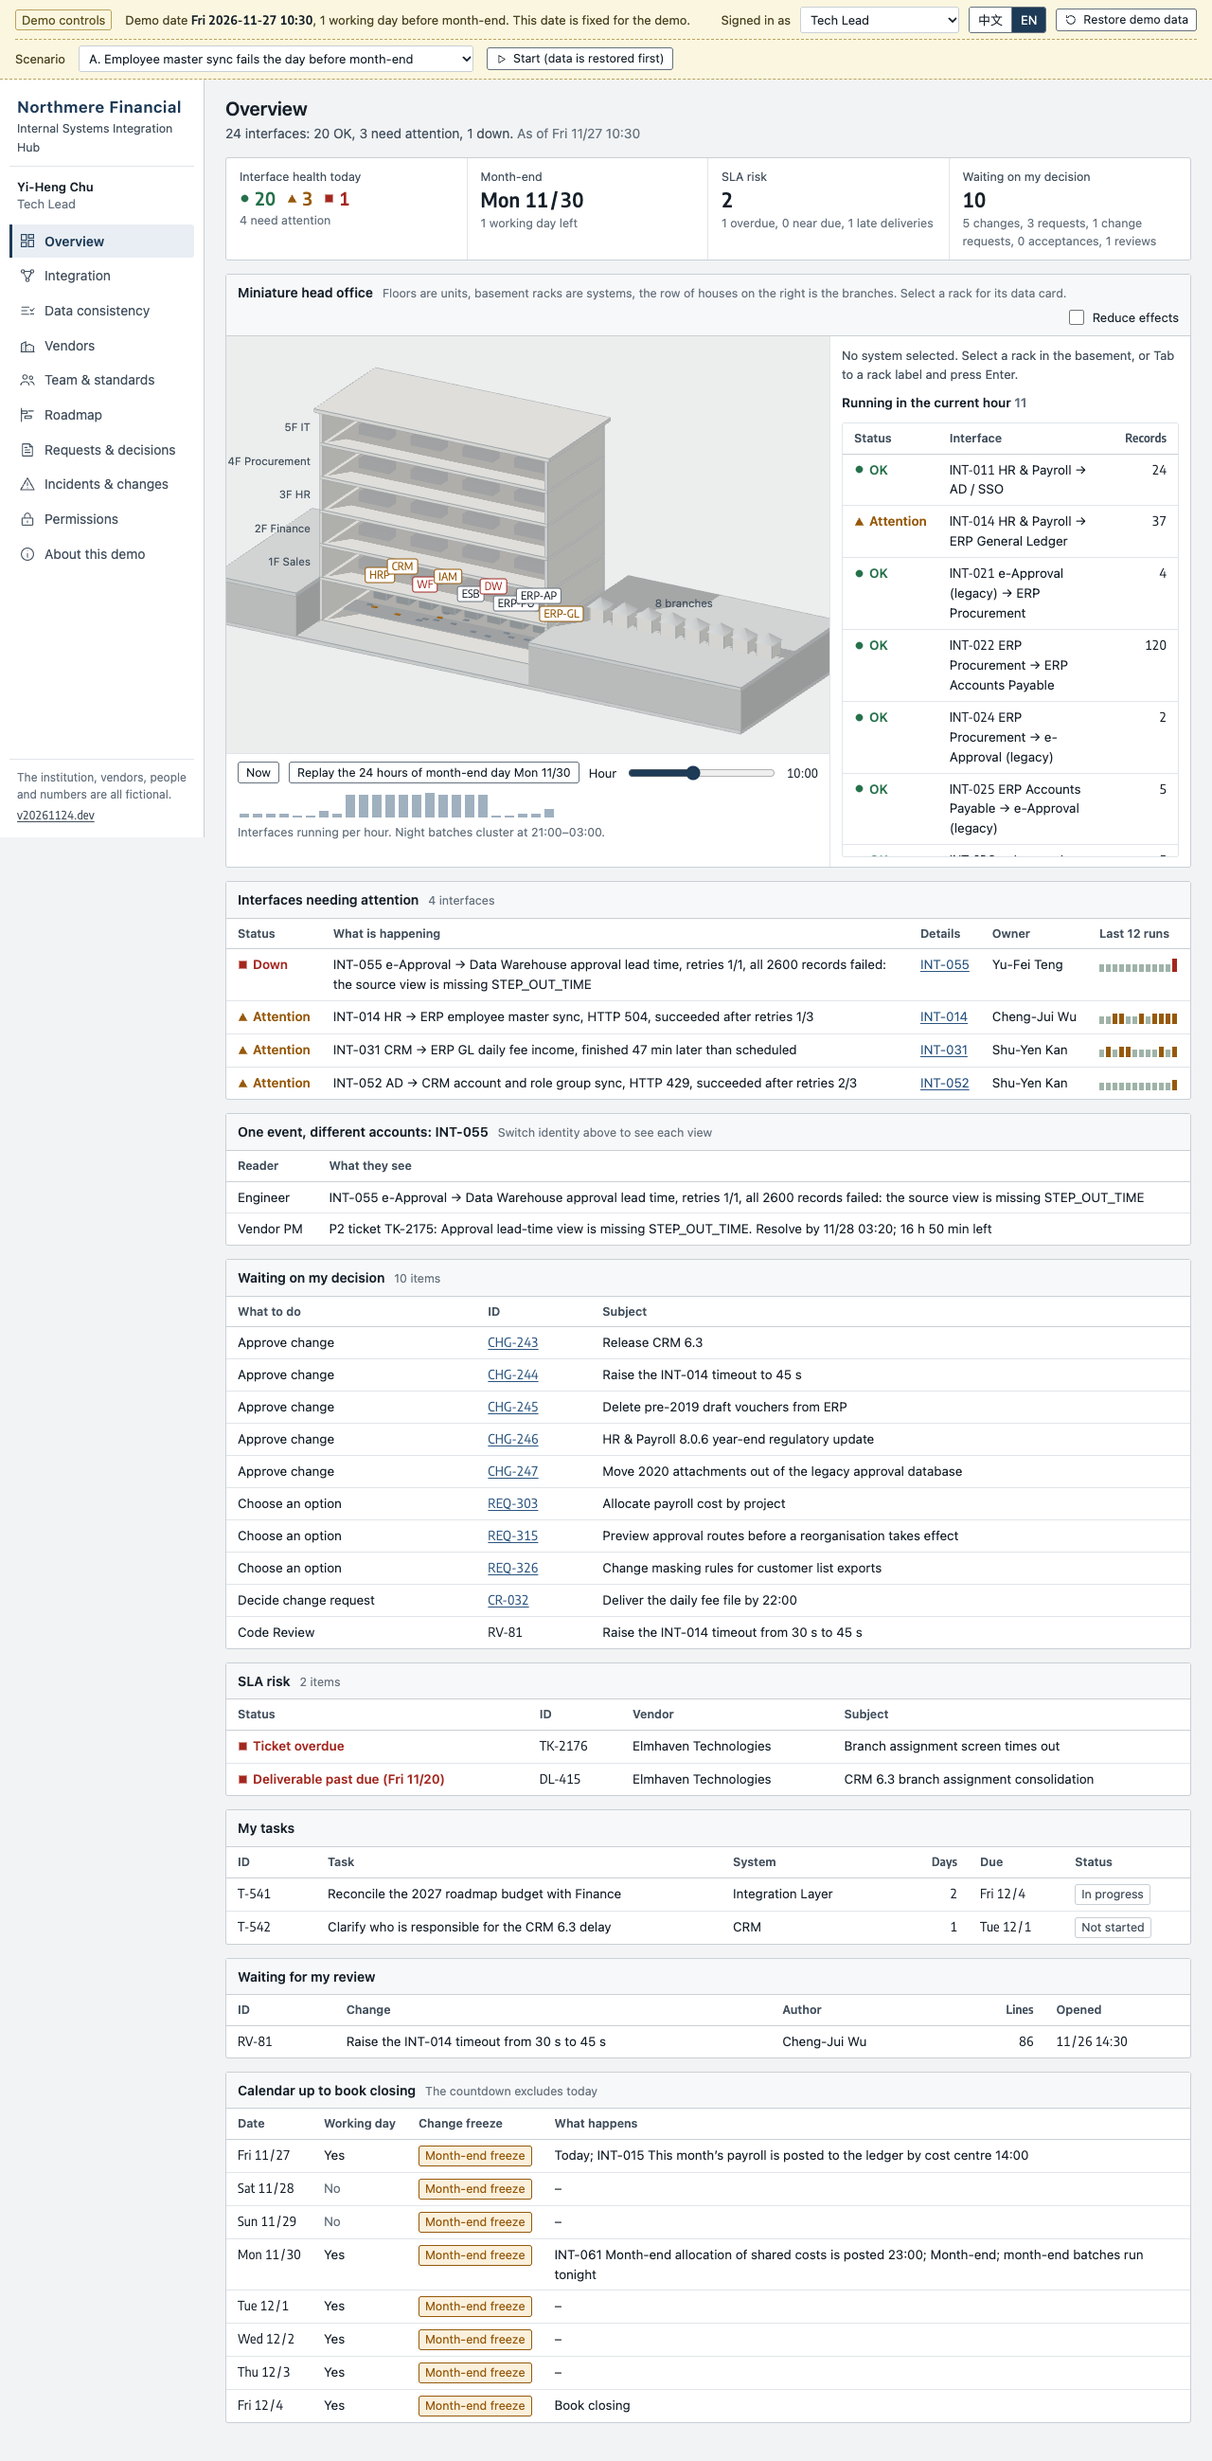
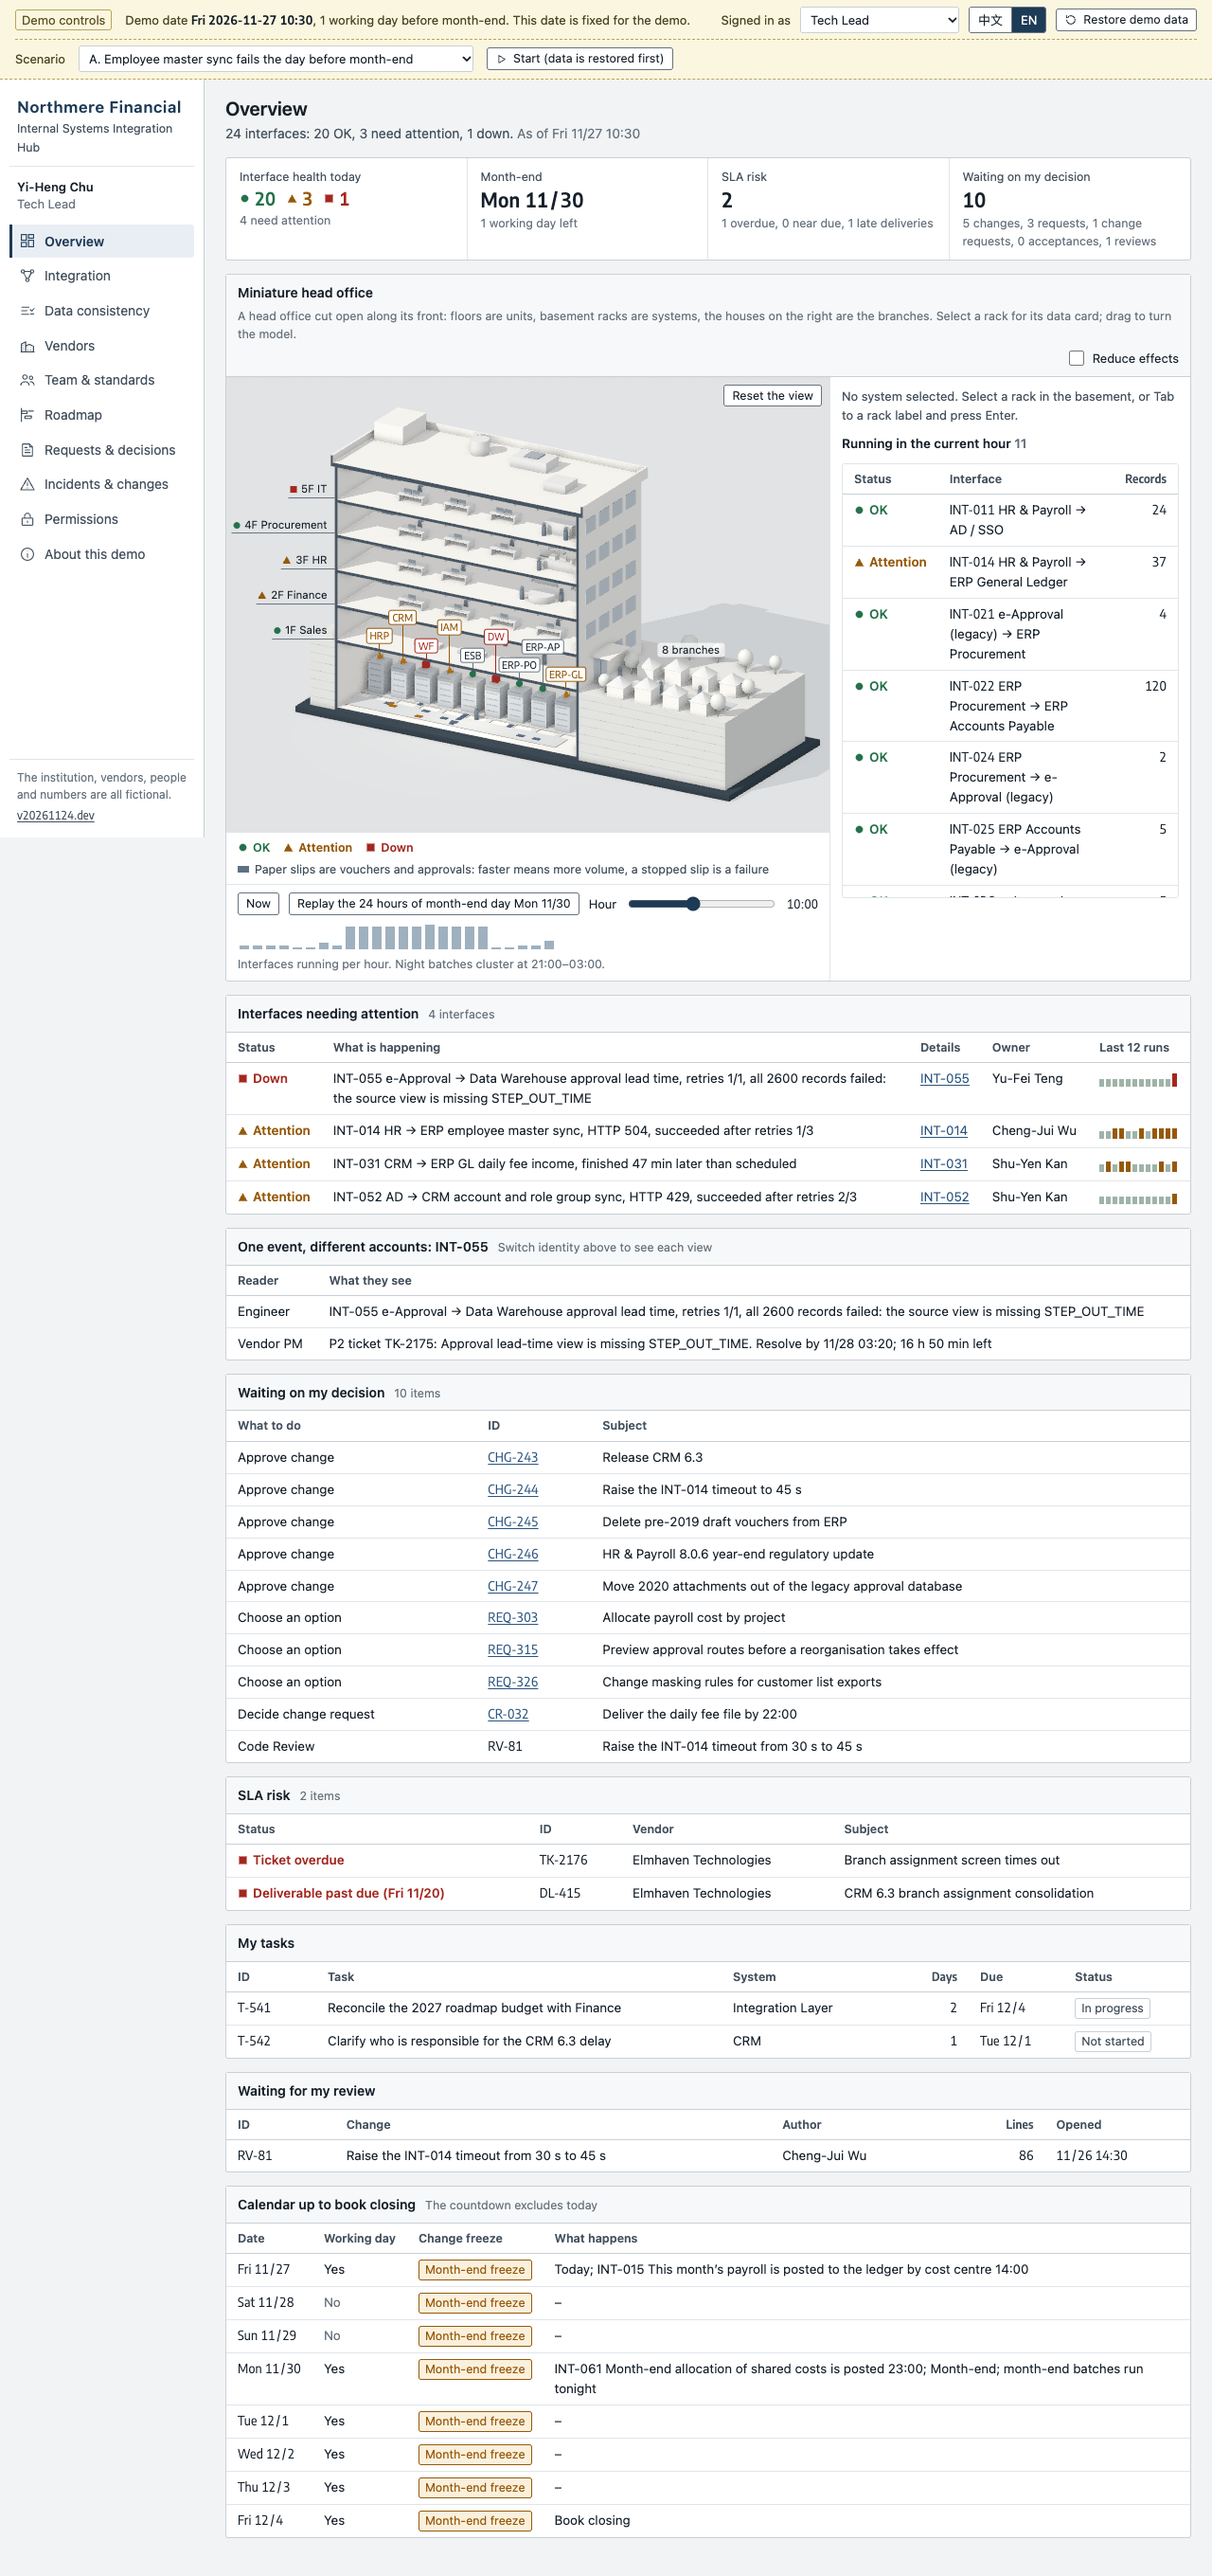
docs: ADR 0006 記下 3D 的畫法，截圖更新
為什麼改成剖面白模、機櫃為什麼靠前靠左、環境遮蔽什麼時候會自己關掉、沒量過的是什麼。
截圖腳本可以指定時間軸的小時，也可以只拍其中幾張；新增一張夜間的截圖。

diff --git a/scripts/screenshots.ts b/scripts/screenshots.ts
@@ -6,6 +6,8 @@ import { mkdirSync } from 'node:fs';
 import { chromium } from '@playwright/test';
 
 const base = process.argv[2] ?? 'http://localhost:4173/';
+// 第二個參數可以只拍檔名開頭符合的那幾張，例如 bun scripts/screenshots.ts http://localhost:4173/ 22
+const only = process.argv[3];
 const OUT = 'docs/screenshots';
 
 interface Shot {
@@ -14,12 +16,15 @@ interface Shot {
   role?: string;
   lang?: 'zh' | 'en';
   width?: number;
+  /** 3D 的時間軸要拉到幾點。 */
+  hour?: number;
 }
 
 const SHOTS: Shot[] = [
   { file: '01-overview-techlead', hash: '/overview' },
   { file: '02-overview-finance', hash: '/overview', role: 'finance' },
   { file: '16-twin-impact', hash: '/overview?focus=hr&what=if' },
+  { file: '22-twin-night', hash: '/overview?focus=erp-gl', hour: 23 },
   { file: '07-integration', hash: '/integration' },
   { file: '08-integration-iface', hash: '/integration?iface=INT-014' },
   { file: '09-integration-impact', hash: '/integration?sys=hr&impact=hr' },
@@ -43,6 +48,7 @@ const SHOTS: Shot[] = [
 mkdirSync(OUT, { recursive: true });
 const browser = await chromium.launch({ channel: process.env.CI ? undefined : 'chrome' });
 for (const shot of SHOTS) {
+  if (only && !shot.file.startsWith(only)) continue;
   const context = await browser.newContext({ viewport: { width: shot.width ?? 1280, height: 800 }, deviceScaleFactor: 1 });
   const page = await context.newPage();
   await page.goto(`${base}#/overview`);
@@ -56,7 +62,13 @@ for (const shot of SHOTS) {
   if (shot.hash.startsWith('/integration') || shot.hash.startsWith('/demands')) await page.waitForSelector('.react-flow__node');
   // 3D 場景也是延遲載入的，等畫布出現
   if (shot.hash.startsWith('/overview')) await page.waitForSelector('#twin-stage canvas, #twin-fallback', { timeout: 15000 });
-  await page.waitForTimeout(400);
+  if (shot.hour !== undefined) {
+    await page.locator('#twin-hour').fill(String(shot.hour));
+    // 拉時間軸會把頁面捲下去，拍之前捲回最上面
+    await page.evaluate(() => window.scrollTo(0, 0));
+  }
+  // 3D 的光線漸變要半秒多
+  await page.waitForTimeout(shot.hash.startsWith('/overview') ? 1200 : 400);
   await page.screenshot({ path: `${OUT}/${shot.file}.png`, fullPage: true });
   console.log(`${OUT}/${shot.file}.png`);
   await context.close();

diff --git a/docs/adr/0006-twin-rendering.md b/docs/adr/0006-twin-rendering.md
@@ -1,0 +1,45 @@
+# ADR 0006：3D 總行畫成剖面白模
+
+- 狀態：已採用
+- 日期：2026-11-24
+
+## 背景
+
+第一版的 3D 是一堆描了邊的灰方塊。資訊是對的（跟 2D 讀同一份模型，見 ADR 0004），但是：
+
+- 看不到影子，體積感全靠邊線。
+- 機櫃放在機房後半，上緣被一樓樓板的前緣擋住；最右邊那個被右邊的牆擋住。
+- 九個機櫃標籤疊在一起。
+- 兩側的土層是兩大塊灰色，比建築還搶眼。
+- three 0.187 已經拿掉 `PCFSoftShadowMap`，每次載入都在主控台留一行警告。
+
+## 決定
+
+- **照建築剖面模型的畫法。** 整個模型沿正面切一刀：切到的樓板與牆填深色；土層的切面刻橫線，像一層一層疊起來的模型板。其餘都是霧面的白，不描邊，靠光影交代體積。底下墊一塊深色底板。
+- **模型與畫法分兩個檔。** `src/three/model.ts` 只蓋不會動的東西，回傳之後要換顏色的零件；`src/three/twin.ts` 管光線、鏡頭、標籤、小紙片與點選。
+- **每層樓的家具不一樣**：營業廳的櫃檯、財務的檔案櫃、人資的面談室、採購的貨架、資訊的網路機房。不看標籤也分得出單位。小零件合成四個 InstancedMesh，整批各算一次繪製。模型裡的小人只是比例尺，數量不代表任何數字。
+- **機櫃靠前、靠左放。** 鏡頭在右前上方：放後面會被樓板擋住，放右邊會被牆擋住。
+- **主光跟著時間走。** 重播月結日的 24 小時，影子會從一邊移到另一邊；入夜後整體變暗、偏冷，機房自己的燈相對變亮。「夜間批次集中在 21 點到凌晨 3 點」不看說明也看得出來。
+- **後製只有一道環境遮蔽**（three 內建的 GTAOPass）。沒有 bloom、沒有景深。
+- **鏡頭取景用算的。** 把模型輪廓上的點投影到畫面，留出樓層標籤的寬度，剛好放滿；英文標籤比較長，換語言時重算。
+- **機櫃標籤看相鄰機櫃在畫面上隔多遠，決定錯開成幾排**，每個標籤一條引線接到機櫃。
+- **樓層標籤前面的形狀是那個單位的介面狀態**（圓、三角、方塊），原本模型裡算了但沒畫出來。
+- 小房子的數量讀營業據點的筆數，不是寫死的 8。
+
+## 代價
+
+- 3D 的 chunk 從約 143 kB 變成約 157 kB（gzip），多出來的是後製。它不在首屏，`check:bundle` 守著這件事。
+- 環境遮蔽每一幀多畫兩趟。三種情況會關掉：
+  - 使用者勾了「降低特效」；
+  - 瀏覽器用 CPU 算圖（SwiftShader、llvmpipe），CI 就是這種；
+  - 連續 45 幀平均超過 30 毫秒。如果瀏覽器把畫面限制在每秒 30 幀（一幀 33 毫秒），也會落進這一條。
+- 陰影只在光線或狀態改變時重算，不是每一幀。
+- 30 毫秒這個門檻是估的，沒有在低階的實體筆電上量過。
+
+## 怎麼守住
+
+`tests/e2e/smoke.e2e.ts`：
+
+- 九個機櫃標籤各有引線、互不重疊；五個樓層標籤都帶著狀態；three 沒有丟警告。
+- 拖曳會轉動模型，按「重設視角」回到原位。
+- 關掉 WebGL，3D 換成同一份資料的表格（原本就有）。

diff --git a/docs/adr/0002-lazy-islands.md b/docs/adr/0002-lazy-islands.md
@@ -5,14 +5,14 @@
 
 ## 背景
 
-需要兩個大的函式庫：`@xyflow/react`（連同 React，gzip 約 156 kB）與 `three`（約 143 kB）。
+需要兩個大的函式庫：`@xyflow/react`（連同 React，gzip 約 156 kB）與 `three`（連同一道後製，約 157 kB）。
 大部分的頁面是表格，用不到它們。不懂技術的主管用公司的舊筆電開，首屏要快。
 
 ## 決定
 
 - 介面本身是原生 TypeScript：一個會自動跳脫的 `html` 樣板（`src/ui/dom.ts`），資料變了就重畫那一塊。沒有前端框架。
 - 流程圖是一座 React 島（`src/flow/FlowIsland.tsx`）。頁面交給它節點與連線的純資料，拿回 `{ update, destroy }`，不需要知道 React 存在。
-- 3D 場景是另一座島（`src/three/twin.ts`），介面一樣是 `{ update, dispose }`。
+- 3D 場景是另一座島（`src/three/twin.ts`，模型在 `src/three/model.ts`），介面一樣是 `{ update, dispose }`。畫法見 ADR 0006。
 - 兩座島都用動態 `import()` 載入，各自一個 chunk；每一頁也各自一個 chunk。
 
 ## 代價

diff --git a/docs/demo-script.md b/docs/demo-script.md
@@ -15,7 +15,7 @@
 
 - **劇本 B**：CRM 廠商交付延遲又被退件。在廠商頁按「退件」與「核定」，劇本會跟著走，最後留下決策紀錄 DEC-110。
 - **劇本 C**：汰換舊簽呈。新舊並行對帳多一條規則 RC-11，切換變更有五項把關，最後寫進路徑圖。
-- **3D**：點機櫃開資料卡，按「注入故障」，受影響的樓層會換色，所有頁面的數字一起變。拉時間軸看月結日晚上的批次。
+- **3D**：點機櫃開資料卡，按「注入故障」，受影響的樓層會換色，所有頁面的數字一起變。按「重播月結日」：影子跟著時間移動，入夜後只剩機房亮著，紙片集中在 ERP 那幾個機櫃。
 - **權限矩陣**：用系統管理員登入，把「核准發版與變更」勾給內部工程師，上面立刻出現職責分離衝突。
 - **路徑圖**：切換「財務看的版本」與「工程看的版本」。2 月的凍結期因為春節連假延到 2/11。
 
